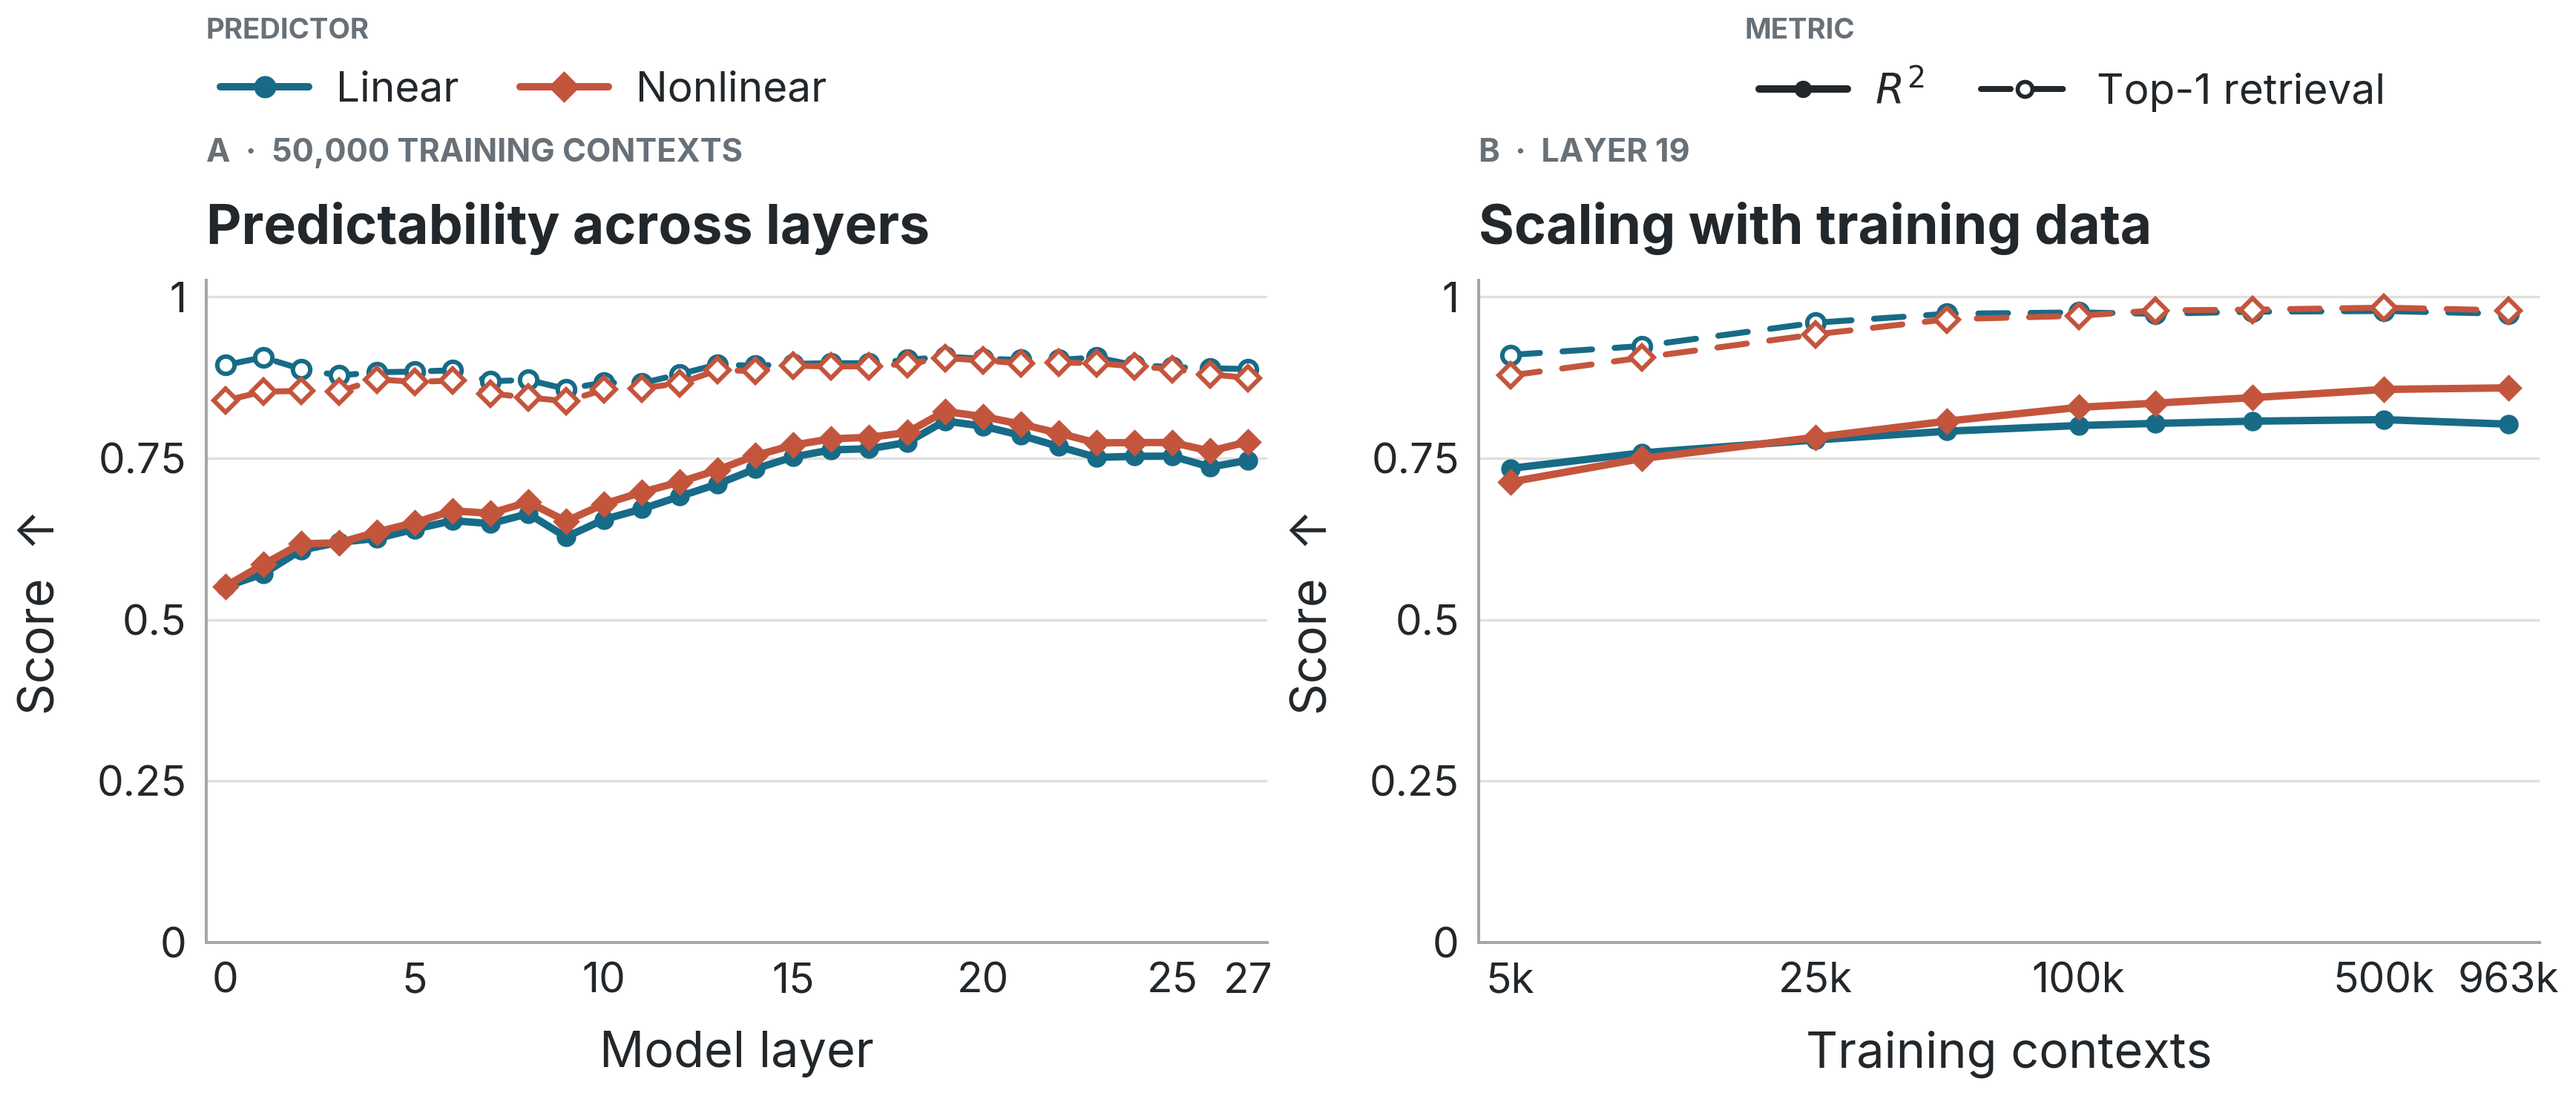
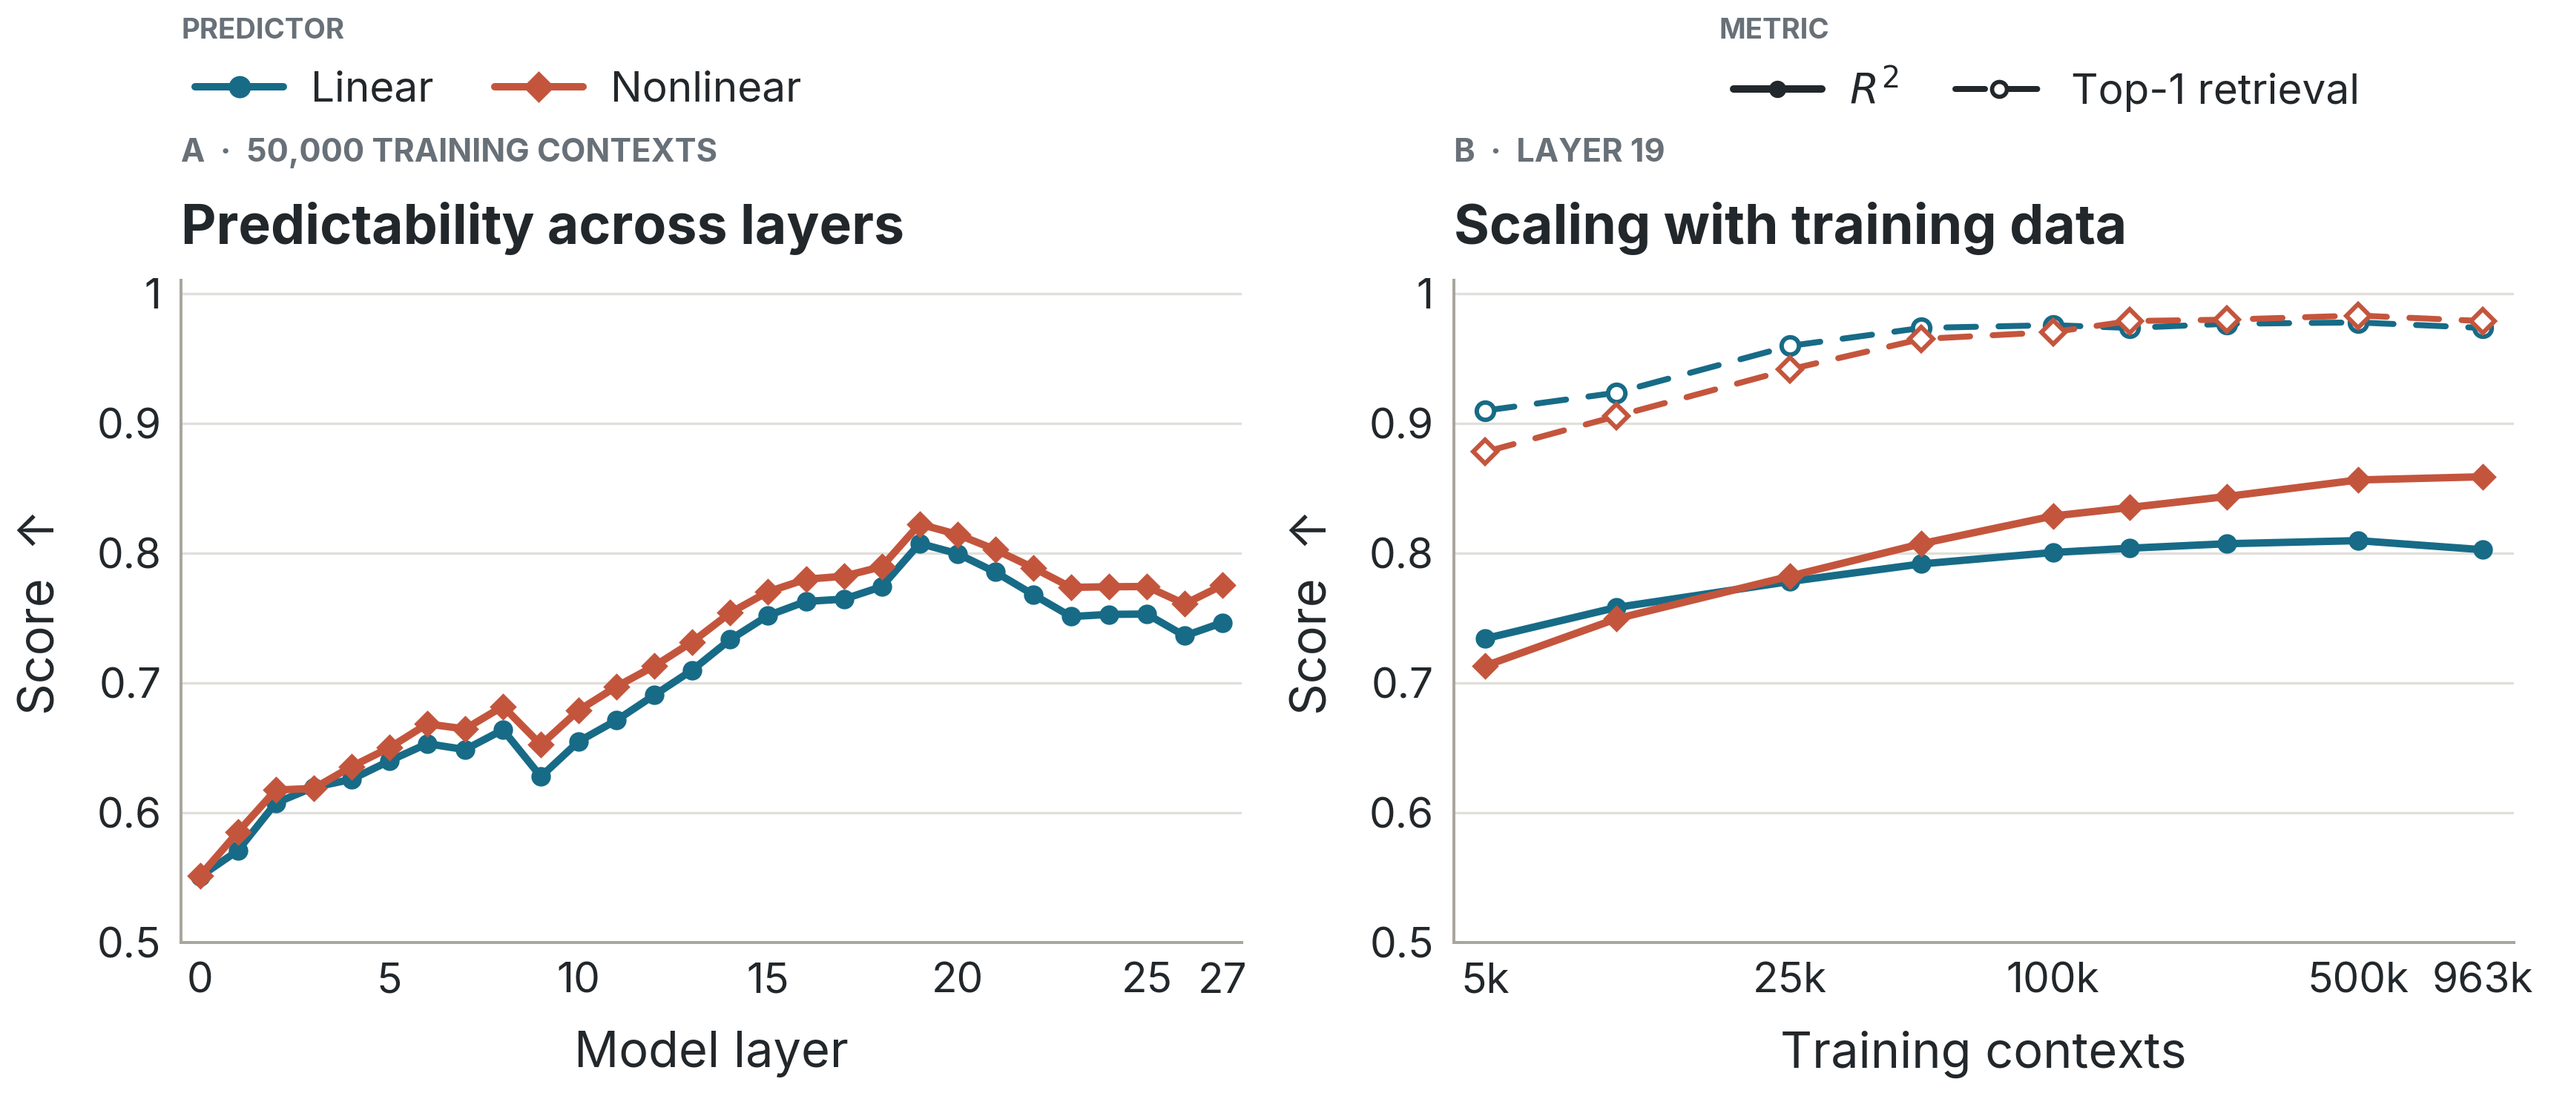
Refine Figure 2 metric layout

diff --git a/scripts/paper_figure2_style_prototype.py b/scripts/paper_figure2_style_prototype.py
@@ -156,8 +156,8 @@ def _style_axes(ax: plt.Axes) -> None:
     ax.spines["left"].set_color(SEAM)
     ax.spines["bottom"].set_color(SEAM)
     ax.tick_params(length=0, pad=8)
-    ax.set_ylim(0.0, 1.025)
-    ax.set_yticks([0.0, 0.25, 0.5, 0.75, 1.0])
+    ax.set_ylim(0.5, 1.01)
+    ax.set_yticks([0.5, 0.6, 0.7, 0.8, 0.9, 1.0])
     ax.yaxis.set_major_formatter(
         FuncFormatter(lambda y, _pos: f"{y:.2f}".rstrip("0").rstrip("."))
     )
@@ -171,6 +171,7 @@ def _plot_panel(
     *,
     title: str,
     kicker: str,
+    show_retrieval: bool,
 ) -> None:
     _style_axes(ax)
     ax.set_title(title, loc="left", y=1.055, pad=0, fontweight=650)
@@ -189,7 +190,6 @@ def _plot_panel(
 
     for key, style in PREDICTORS.items():
         x, r2 = _series(rows, key, "r2")
-        _, retrieval = _series(rows, key, "retrieval")
 
         ax.plot(
             x,
@@ -201,19 +201,21 @@ def _plot_panel(
             lw=3.0,
             zorder=4,
         )
-        ax.plot(
-            x,
-            retrieval,
-            color=style.color,
-            marker=style.marker,
-            markerfacecolor=PAPER,
-            markeredgecolor=style.color,
-            markeredgewidth=1.8,
-            markersize=7.0,
-            lw=2.4,
-            linestyle=(0, (5.0, 3.8)),
-            zorder=3,
-        )
+        if show_retrieval:
+            _, retrieval = _series(rows, key, "retrieval")
+            ax.plot(
+                x,
+                retrieval,
+                color=style.color,
+                marker=style.marker,
+                markerfacecolor=PAPER,
+                markeredgecolor=style.color,
+                markeredgewidth=1.8,
+                markersize=7.0,
+                lw=2.4,
+                linestyle=(0, (5.0, 3.8)),
+                zorder=3,
+            )
 
 
 def _human_n(value: float, _position: int | None = None) -> str:
@@ -274,12 +276,14 @@ def make_figure(layer: dict, scaling: dict) -> plt.Figure:
         layer["rows"],
         title="Predictability across layers",
         kicker=f"A  ·  {layer['n_train']:,} training contexts",
+        show_retrieval=False,
     )
     _plot_panel(
         ax_scale,
         scaling["rows"],
         title="Scaling with training data",
         kicker=f"B  ·  layer {scaling['layer']}",
+        show_retrieval=True,
     )
 
     ax_layer.set_xlim(-0.5, 27.5)
